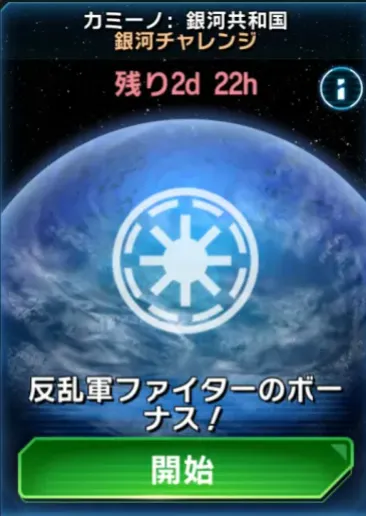
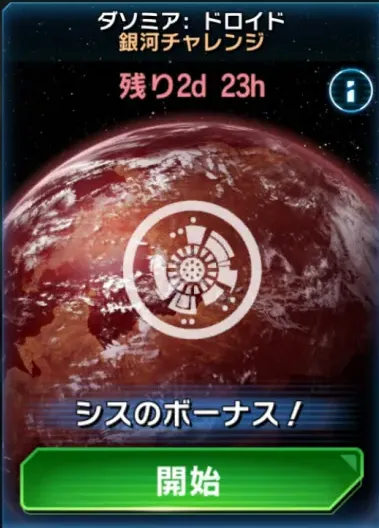
GCのボーナスと偉業を更新

diff --git a/galactic_challenge.php b/galactic_challenge.php
@@ -266,10 +266,19 @@
 						ユニットが弱体効果を受けるたび、ユニットのプロテクションが10%回復する。<br>
 						ユニットが戦闘不能になるたび、ランダムな他の味方1体にボーナスターンが発生する。
 					</li>
+					<li>ダソミア：「闇魔術」<br>
+						10ターンごとに、戦闘不能になったユニット全体がHP50%の状態で復活する。
+					</li>
 				</ul>
 
 				<h4>プレイヤー</h4>
 				<ul>
+					<li>シス：「残酷な陰謀」<br>
+						味方シスが戦闘不能になるたび、味方シス全体の最大HPと攻撃力がバトル終了まで20%上昇(スタック可能)し、
+						HPが25%回復する。敵を倒すたび、味方シスは<span class="strong">ダーク・アセンション</span>を得る(スタック可能。コピー、解除、阻止不可)。
+						<br>
+						<span class="strong">ダーク・アセンション</span>：受けるダメージが15%減少し、与えるダメージが30%上昇する。
+					</li>
 					<li>帝国軍トルーパー：「帝国軍アーマー」<br>
 						帝国軍トルーパーの最大HPと最大プロテクションが15%上昇する。
 						リーダースロットにいないドロイド以外の帝国軍トルーパーは、初めて戦闘不能になると、HP100%、プロテクション75%の状態で復活する。
@@ -308,6 +317,11 @@
 						バトル終了まで、クローン・トルーパーは強化効果(解除可能)を受けるたび、「<span class="strong">勇猛</span>」のスタックを1得る(コピー、解除不可)。
 						<br>
 						<span class="strong">勇猛</span>：攻撃力、クリティカル率、クリティカルダメージが5%、ヘルススティールが1%上昇する。
+					</li>
+					<li>ドロイド：「プロトコル: 根絶」<br>
+						味方ドロイドの攻撃力が30%上昇する。
+						味方ドロイドがターン中にクリティカルヒットを決めるたび、その敵にターゲットロックが発生していない場合は2ターンのターゲットロックを発生させる。
+						味方ドロイドがターゲットロック状態の敵にダメージを与えるたび、その味方のプロテクションが10%回復する。
 					</li>
 					<li>レジスタンス：「勇猛不屈の精神」<br>
 						敵が味方レジスタンスからのマイナス効果に耐性発揮するたび、その味方に1ターンの時間経過回復が発生する。
@@ -354,6 +368,8 @@
 						リーダースロットにリーダーを使用せずに勝利する</li>
 					<li><h4>シンプルトリック</h4>
 						特殊スキルの使用3回以内でバトルに勝利する</li>
+					<li><h4>勢力均衡</h4>
+						ライトサイドユニット1体以上とダークサイドユニット1体以上を生存させて勝利する</li>
 					<li><h4>チェインアタック</h4>
 						8ターン連続で取ってから勝利する</li>
 					<li><h4>長引く死</h4>
